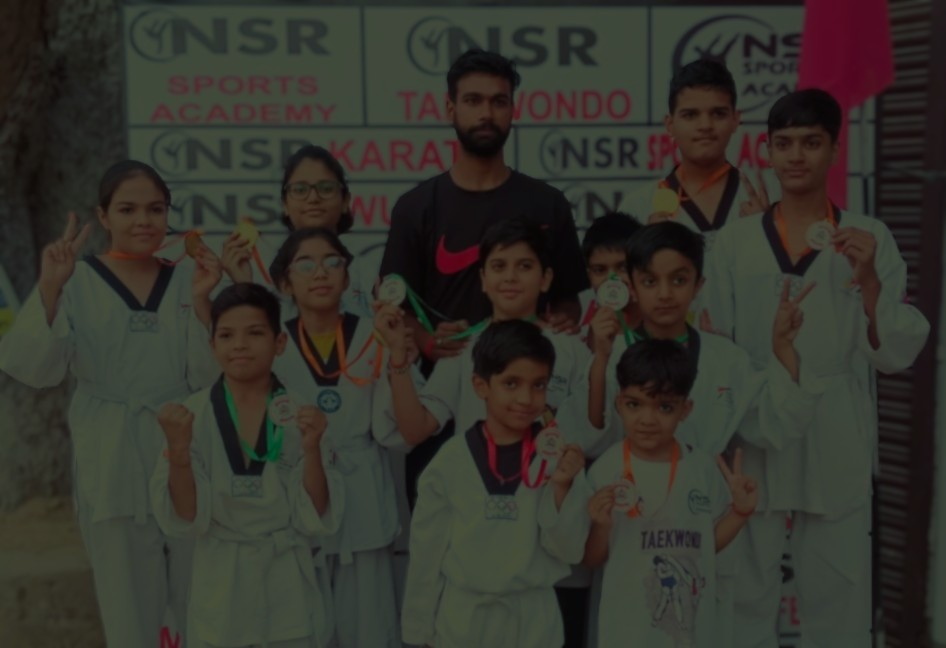
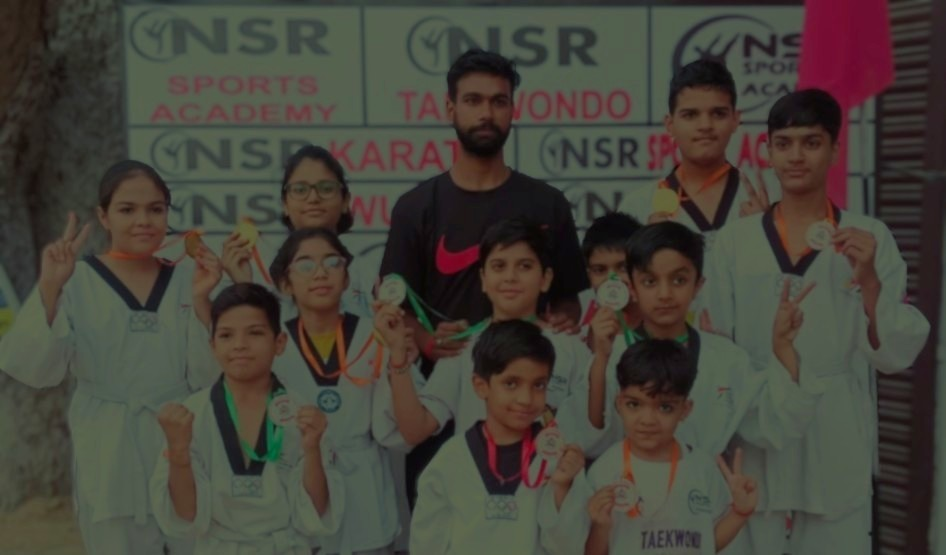
new design

diff --git a/styles.css b/styles.css
@@ -14,7 +14,7 @@ body {
 /* Hero Section */
 .hero {
     position: relative;
-    height: 120vh;
+    height: 100vh;
     background: url('./image/hero-background.jpg') center/cover no-repeat;
     display: flex;
     align-items: center;
@@ -31,7 +31,7 @@ body {
     left: 0;
     width: 100%;
     height: 100%;
-    background: linear-gradient(rgba(0, 0, 0, 0.5), rgba(0, 0, 0, 0.7));
+    background: linear-gradient(rgba(50, 50, 50, 0.658), rgba(50, 50, 50, 0.658));
 }
 
 .hero-content {
@@ -527,7 +527,7 @@ nav {
 /* Submit Form Section Styles */
 .submit-form-section {
     padding: 4rem 0;
-    background: linear-gradient(to right, #f8f9fa 50%, #ffffff 50%);
+    background: linear-gradient(to right, #4f7ba1 50%, #4f7ba1 50%);
 }
 
 .split-layout {
@@ -542,7 +542,8 @@ nav {
 
 /* Coach Profile Styles */
 .coach-profile {
-    background: #f8f9fa;
+    background: rgba(255, 255, 255, 0.25);
+    backdrop-filter: blur(4px);
     border-radius: 10px;
     padding: 2rem;
     box-shadow: 0 4px 6px rgba(0, 0, 0, 0.1);
@@ -629,7 +630,8 @@ nav {
 
 /* Enhanced Contact Form Styles */
 .contact-form {
-    background: #ffffff;
+    background: rgba(255, 255, 255, 0.25);
+    backdrop-filter: blur(4px);
     padding: 2.5rem;
     border-radius: 15px;
     box-shadow: 0 10px 30px rgba(0, 0, 0, 0.1);
@@ -871,7 +873,8 @@ nav {
 
 /* Contact Form Styles */
 .contact-form {
-    background: #ffffff;
+    background: rgba(255, 255, 255, 0.25);
+    backdrop-filter: blur(4px);
     padding: 2rem;
     border-radius: 10px;
     box-shadow: 0 4px 6px rgba(0, 0, 0, 0.1);
@@ -1246,7 +1249,7 @@ nav {
 /* Features Section */
 .features {
     padding: 5rem 1rem;
-    background-color: #f8f9fa;
+    background-color: #b0b0b0;
     position: relative;
     overflow: hidden;
 }
@@ -1689,7 +1692,7 @@ footer {
 .programs-header {
     text-align: center;
     padding: 3rem 1rem;
-    background: linear-gradient(rgba(0, 0, 0, 0.7), rgba(0, 0, 0, 0.7)), url('./image/hero-background.jpg') center/cover;
+    background: linear-gradient(rgba(50, 50, 50, 0.7), rgba(50, 50, 50, 0.7)), url('./image/hero-background.jpg') center/cover;
     color: white;
     margin-bottom: 3rem;
 }
@@ -1775,13 +1778,13 @@ footer {
 /* Blog Page Styles */
 .blog-main {
     padding-top: 80px;
-    background-color: #f8f9fa;
+    background-color: #c6c8ca;
 }
 
 .blog-header {
     text-align: center;
     padding: 3rem 1rem;
-    background: linear-gradient(rgba(0, 0, 0, 0.7), rgba(0, 0, 0, 0.7)), url('./image/hero-background.jpg') center/cover;
+    background: linear-gradient(rgba(50, 50, 50, 0.7), rgba(50, 50, 50, 0.7)), url('./image/hero-background.jpg') center/cover;
     color: white;
     margin-bottom: 3rem;
 }
